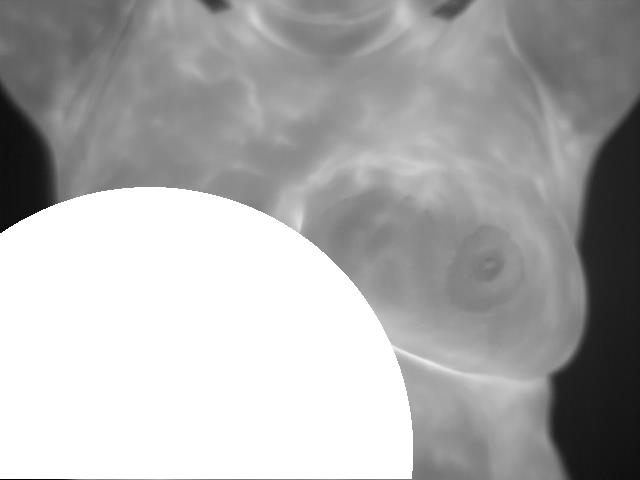
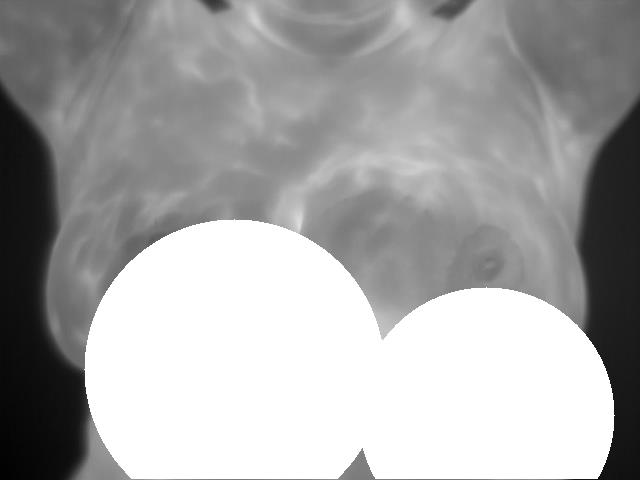
Criado crossover, definido nova classe Circle, definido parametros do individuo, criado torneio

diff --git a/src/GATIS/GA.java b/src/GATIS/GA.java
@@ -1,0 +1,88 @@
+package GATIS;
+
+import java.util.Random;
+
+public class GA {
+	//CONSTANTS
+	final int decimalArraySize = 10;
+	
+	
+	
+	Individual crossover(Individual a1, Individual a2 ) {
+		Random r = new Random();
+		Circle e1 = new Circle(a1.getCircle(1));
+		Circle e2 = new Circle(a2.getCircle(1));
+		Circle d1 = new Circle(a1.getCircle(2));
+		Circle d2 = new Circle(a2.getCircle(2));
+		
+		
+		int[]auxXl = new int[decimalArraySize];
+		int[]auxYl = new int[decimalArraySize];
+		int[]auxRl = new int[decimalArraySize];
+		
+		int[]auxXr = new int[decimalArraySize];
+		int[]auxYr = new int[decimalArraySize];
+		int[]auxRr = new int[decimalArraySize];
+		
+		int cutX = r.nextInt(decimalArraySize-1);
+		int cutY = r.nextInt(decimalArraySize-1);
+		int cutR = r.nextInt(decimalArraySize-1);
+		
+		for(int i = 0 ; i < decimalArraySize-1; i++) {
+			//CROSSOVER OF TEM LEFT CIRCLE e1 AND e2
+			//CROSSOVER OF X POSITION
+			if(i <= cutX ) {
+				auxXl[i] = e1.getBx()[i];
+			}else {
+				auxXl[i] = e2.getBx()[i];
+			}
+			//CROSSOVER OF Y POSITION
+			if(i <= cutY) {
+				auxYl[i] = e1.getBy()[i];
+			}else{
+				auxYl[i] = e2.getBy()[i];
+			}
+			//CROSSOVER OF RADIUS SIZE
+			if(i <= cutR) {
+				auxRl[i] = e1.getBr()[i];
+			}else {
+				auxRl[i] = e2.getBr()[i];
+			}
+			//CROSSOVER OF TEM RIGHT CIRCLE d1 AND d2
+			//CROSSOVER OF X POSITION
+			if(i <= cutX ) {
+				auxXr[i] = d1.getBx()[i];
+			}else {
+				auxXr[i] = d2.getBx()[i];
+			}
+			//CROSSOVER OF Y POSITION
+			if(i <= cutY) {
+				auxYr[i] = d1.getBy()[i];
+			}else{
+				auxYr[i] = d2.getBy()[i];
+			}
+			//CROSSOVER OF RADIUS SIZE
+			if(i <= cutR) {
+				auxRr[i] = d1.getBr()[i];
+			}else {
+				auxRr[i] = d2.getBr()[i];
+			}			
+		}
+		Circle cl = new Circle(auxXl, auxYl, auxRl);
+		Circle cr = new Circle(auxXr, auxYr, auxRr);
+		Individual children = new Individual(cl,cr);
+		
+		return children;
+		
+	}
+	
+	Individual tournament(Individual a1, Individual a2) {
+		
+		if(a1.getScore()>a2.getScore())
+			return a1;
+		else
+			return a2;
+		
+	}
+	
+}

diff --git a/src/GATIS/Circle.java b/src/GATIS/Circle.java
@@ -1,0 +1,97 @@
+package GATIS;
+
+public class Circle {
+	//CONSTANTS
+	final int decimalArraySize = 10;
+	
+	//ATTRIBUTES
+	int cX;
+	int[] bX = new int[decimalArraySize];
+	int cY;
+	int[] bY = new int[decimalArraySize];
+	int radius;
+	int[] bR = new int[decimalArraySize];
+	
+	
+	
+	
+	Circle(int x, int y, int r){
+		
+		cX = x;
+		bX = Math.decToBinary(cX);
+		cY = y;
+		bY = Math.decToBinary(cY);
+		radius = r;			
+		bR = Math.decToBinary(radius);
+	}
+	
+	Circle(int[] x, int[] y, int[] r){
+		
+		cX = Math.binaryToDecimal(x);
+		bX = x;
+		cY = Math.binaryToDecimal(y);
+		bY = y;
+		radius = Math.binaryToDecimal(r);			
+		bR = r;
+	}
+	
+	Circle(Circle c){
+		setX(c.getBx());
+		setY(c.getBy());
+		radius = c.getRadius();
+		bX = c.getBx();
+		bY = c.getBy();
+		bR = c.getBr();
+		
+	}
+	
+	int getX() {
+		return cX;
+	}
+	
+	int getY() {
+		return cY;
+	}
+	
+	int getRadius() {
+		return radius;
+	}
+	
+	int[] getBx() {
+		return bX;
+	}
+	
+	int[] getBy() {
+		return bY;
+	}
+	
+	int[] getBr() {
+		return bR;
+	}
+
+	void setX(int[] x) {
+		bX = x;
+		cX = Math.binaryToDecimal(x);
+	}
+	
+	void setY(int[] y) {
+		bY = y;
+		cY = Math.binaryToDecimal(y);
+	}
+	
+	void setR(int[] r) {
+		bR = r;
+		radius = Math.binaryToDecimal(r);
+	}
+	
+	void setPosition(int x , int y) {
+		cX = x;
+		cY = y;
+	}
+	
+	void setRadius(int r) {
+		radius = r;
+	}
+	
+
+}

diff --git a/src/GATIS/Math.java b/src/GATIS/Math.java
@@ -1,0 +1,57 @@
+package GATIS;
+
+public class Math {
+
+	
+	
+	static int binaryToDecimal(int[] n) 
+    { 
+        int[] num = n; 
+        int dec_value = 0; 
+  
+        // Initializing base value to 1, 
+        // i.e 2^0 
+        int base = 1; 
+  
+        int len = num.length; 
+        for (int i = len - 1; i >= 0; i--) { 
+            if (num[i] == 1) 
+                dec_value += base; 
+            base = base * 2; 
+        } 
+  
+        return dec_value; 
+    }  
+	
+	static int[] decToBinary(int n) 
+    { 
+        // array to store binary number 
+        int[] binaryNum = new int[32]; 
+        
+        // counter for binary array 
+        int i = 0; 
+        while (n > 0) { 
+            // storing remainder in binary array 
+            binaryNum[i] = n % 2; 
+            n = n / 2; 
+            i++; 
+        } 
+        int[] binaryArray = new int[i];
+        // printing binary array in reverse order 
+        for (int j = 0; j < i; j++) {
+            binaryArray[j] =  binaryNum[i-j-1];
+            System.out.print(binaryArray[j]);
+        }
+        return binaryArray;
+    }
+	
+	public static void main(String[] args){ 
+        int n = 17; 
+        decToBinary(n); 
+        int[] num = {1,0,0,0,1};
+        System.out.println(binaryToDecimal(num));
+        
+    }
+	
+	
+}
